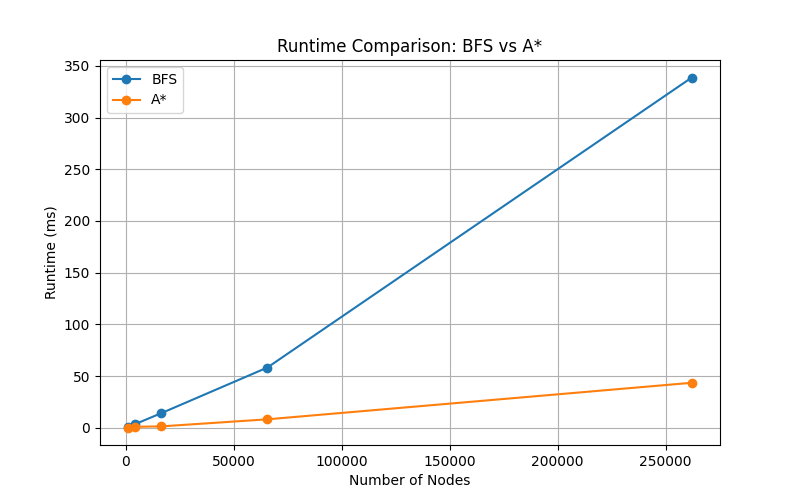
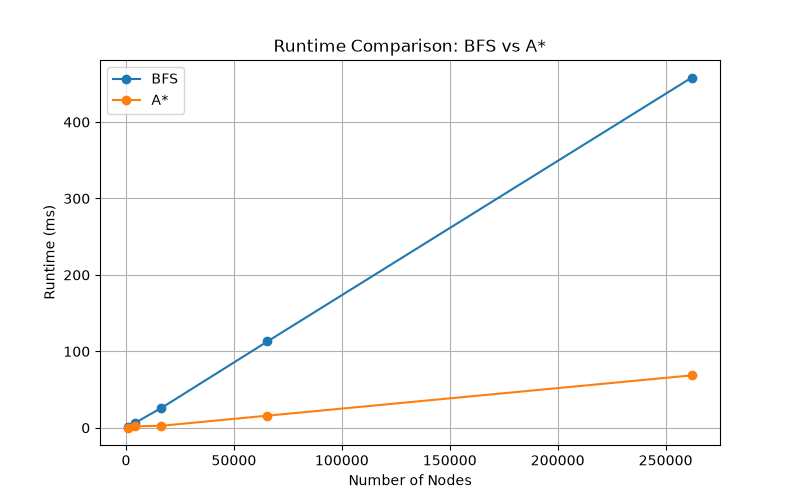
Added implementation and complexity on the algorithms

diff --git a/algorithms/astar.py b/algorithms/astar.py
@@ -1,28 +1,20 @@
 import heapq
 from itertools import count
+from typing import List, Tuple, Dict, Any
+from algorithms.bfs import reconstruct_path
 
 
-def manhattan_distance(a, b):
+def manhattan_distance(a: Tuple[int, int], b: Tuple[int, int]) -> int:
     return abs(a[0] - b[0]) + abs(a[1] - b[1])
 
 
-def reconstruct_path(parent, start, goal):
-    path = []
-    current = goal
-
-    while current != start:
-        path.append(current)
-        current = parent[current]
-
-    path.append(start)
-    path.reverse()
-
-    return path
-
-
-def astar(maze, start, goal):
+def astar(maze: List[List[int]], start: Tuple[int, int], goal: Tuple[int, int]) -> Dict[str, Any]:
     """
     A* Search using Manhattan distance heuristic.
+    
+    Time Complexity: O(E log V) in the worst case using a Binary Heap (Priority Queue).
+                     In a grid where E <= 4V, this is O(V log V).
+    Space Complexity: O(V) for the priority queue, closed_set, g_score, and parent dict.
     """
 
     rows = len(maze)

diff --git a/run_benchmark.py b/run_benchmark.py
@@ -39,12 +39,13 @@ def run_benchmark():
 
         start = (0, 0)
         goal = (size - 1, size - 1)
+        current_seed = base_seed + size
 
         maze = generate_maze(
             rows=size,
             cols=size,
             obstacle_prob=obstacle_prob,
-            seed=base_seed + size
+            seed=current_seed
         )
 
         bfs_time, bfs_result = average_runtime(
@@ -64,18 +65,19 @@ def run_benchmark():
         )
 
         same_path_length = (
-            bfs_result["path_length"] == astar_result["path_length"]
+            bfs_result["path_length"] == astar_result["path_length"] if bfs_result["path"] and astar_result["path"] else False # type: ignore
         )
 
         row = {
             "grid_size": f"{size}x{size}",
             "nodes": size * size,
+            "seed": current_seed,
             "bfs_runtime_ms": round(bfs_time, 4),
             "astar_runtime_ms": round(astar_time, 4),
-            "bfs_explored_nodes": bfs_result["explored_nodes"],
-            "astar_explored_nodes": astar_result["explored_nodes"],
-            "bfs_path_length": bfs_result["path_length"],
-            "astar_path_length": astar_result["path_length"],
+            "bfs_explored_nodes": bfs_result["explored_nodes"], # type: ignore
+            "astar_explored_nodes": astar_result["explored_nodes"], # type: ignore
+            "bfs_path_length": bfs_result["path_length"], # type: ignore
+            "astar_path_length": astar_result["path_length"], # type: ignore
             "same_path_length": same_path_length
         }
 

diff --git a/algorithms/bfs.py b/algorithms/bfs.py
@@ -1,7 +1,8 @@
 from collections import deque
+from typing import List, Tuple, Dict, Any
 
 
-def reconstruct_path(parent, start, goal):
+def reconstruct_path(parent: Dict[Tuple[int, int], Tuple[int, int]], start: Tuple[int, int], goal: Tuple[int, int]) -> List[Tuple[int, int]]:
     path = []
     current = goal
 
@@ -15,9 +16,14 @@ def reconstruct_path(parent, start, goal):
     return path
 
 
-def bfs(maze, start, goal):
+def bfs(maze: List[List[int]], start: Tuple[int, int], goal: Tuple[int, int]) -> Dict[str, Any]:
     """
     Breadth-First Search for shortest path in an unweighted grid graph.
+    
+    Time Complexity: O(V + E) where V is number of cells and E is number of edges.
+                     In a grid, E <= 4V, so it simplifies to O(V).
+    Space Complexity: O(V) for the queue, visited set, and parent dictionary.
+                      At worst, it stores all walkable cells.
     """
 
     rows = len(maze)